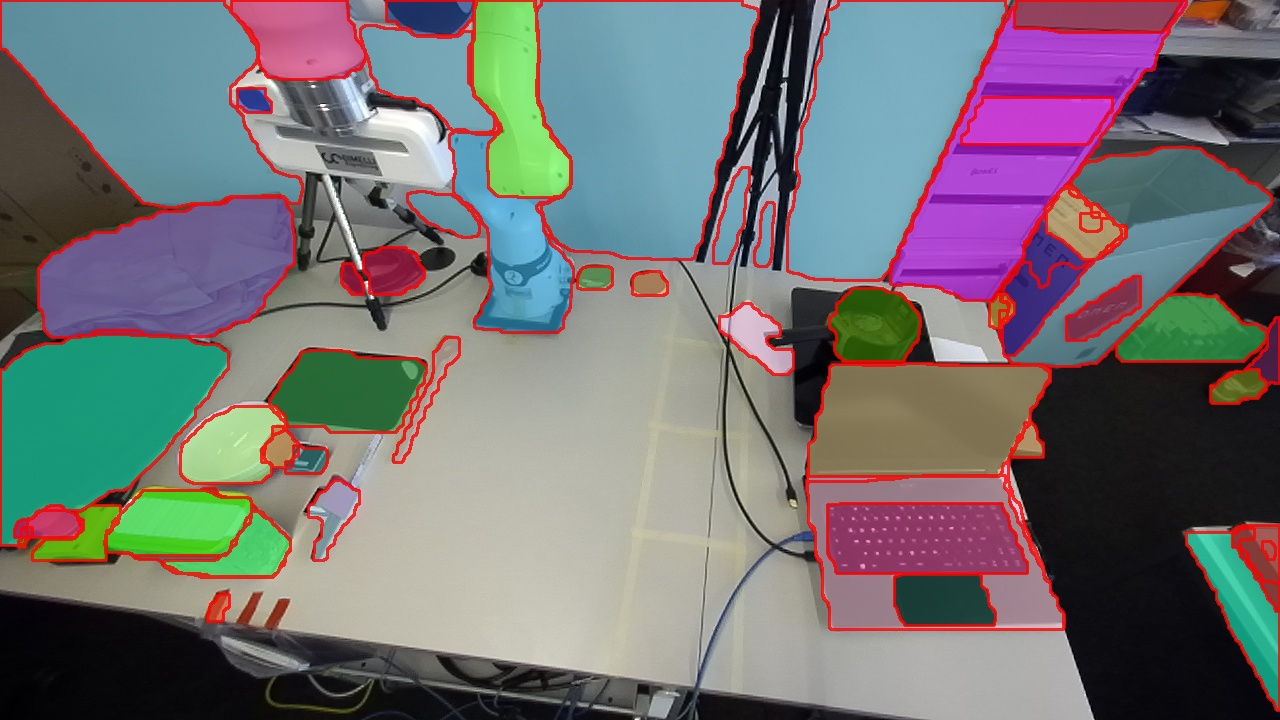
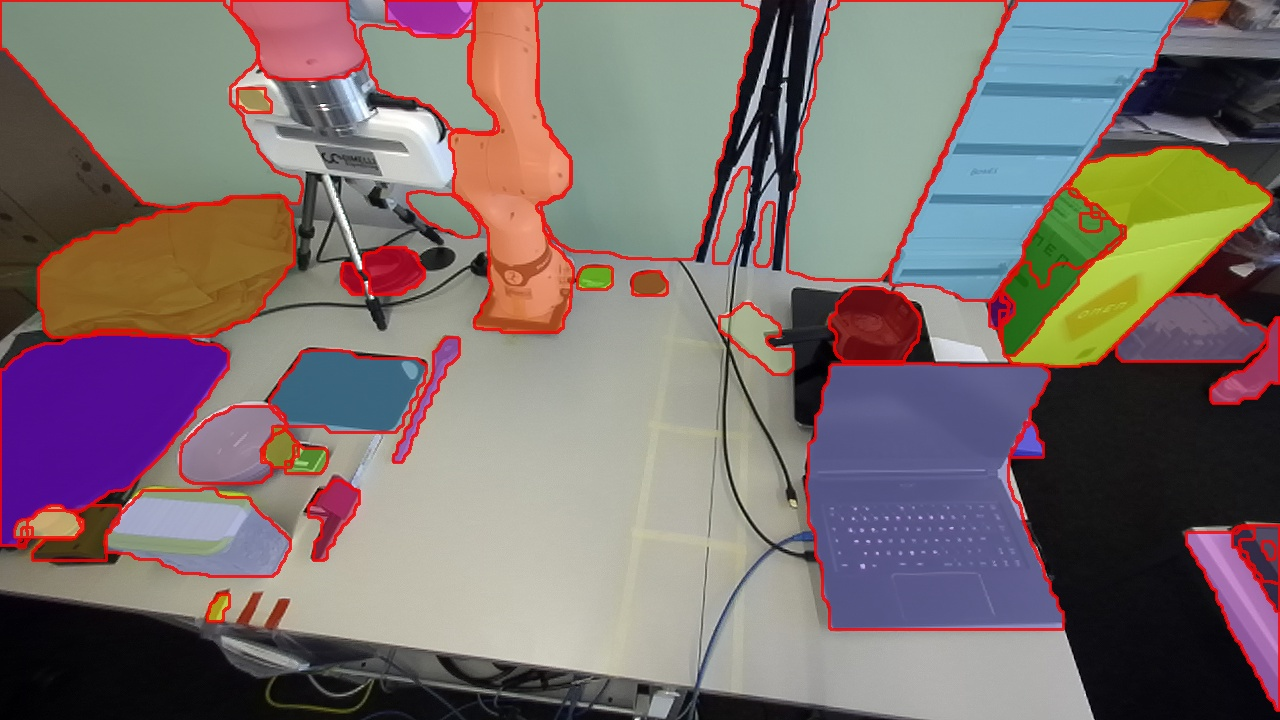
added Segmentation Matcher class and fixed some minor bugs

diff --git a/match_segmentation.py b/match_segmentation.py
@@ -4,6 +4,7 @@ import cv2
 from tryout import visualize_segmentation
 from segmentation_matching_helpers import *
 import pickle
+from segmentation_matcher import SegmentationMatcher, SegmentationParameters
 
 
 # Done: overlay both pointclouds
@@ -73,6 +74,7 @@ def crop_image_to_workspace(image, intrinsics, transform=np.eye(4, 4), min_bound
 
 if __name__ == "__main__":
     # ToDo: When adjusting workspace directly crop image to save segmentation runtime
+    # ToDO: implement pipeline to read and save camera intrinsics, transformations etc. from file
     # "global" parameters
     model = FastSAM('FastSAM-x.pt')
 
@@ -116,6 +118,7 @@ if __name__ == "__main__":
     # Done: we SHOULD NOT scale anymore, save the depth image as uint16 scaled by 10k
     # -> The Pointcloud is empty
     # ZED camera intrinsics
+    # ToDo: find out why intrinsics from ZED API are not equal to intrinsics from zed explorer
     o3d_intrinsic1 = o3d.camera.PinholeCameraIntrinsic(width=1280, height=720,
                                                        fx=533.77, fy=535.53,
                                                        cx=661.87, cy=351.29)
@@ -124,20 +127,19 @@ if __name__ == "__main__":
                                                        fx=523.68, fy=523.68,
                                                        cx=659.51, cy=365.34)
 
-    img = crop_image_to_workspace(color_image2, o3d_intrinsic2, transform=H2, min_bound=(-0.2, -0.5, -0.1),
-                                  max_bound=(0.5, 0.5, 1.0))
+    segmentation_parameters = SegmentationParameters(736, conf=0.6, iou=0.9)
+    segmenter = SegmentationMatcher(segmentation_parameters, cutoff=2.0, model_path='FastSAM-x.pt')
+    segmenter.set_camera_params([o3d_intrinsic1, o3d_intrinsic2], [H1, H2])
+    segmenter.set_images([color_image1, color_image2], [depth_image1, depth_image2])
+    # ToDo: Segmentation seems to be slower when called via this class
+    mask_arrays = segmenter.segment_color_images(device="cpu")
+    segmenter.generate_pointclouds_from_masks()
+    global_pointclouds = segmenter.project_pointclouds_to_global()
+    # exception free
+    correspondences, scores = segmenter.match_segmentations(voxel_size=0.05, threshold=0.0)
+    corresponding_pointclouds = segmenter.align_corresponding_objects(correspondences, scores)
 
-    # ToDo: Maybe we can use fastsam background to help our segmentation
-    """
-    cv2.imshow('img', img)
-    cv2.waitKey(0)
-    img = crop_image_to_workspace(color_image1, o3d_intrinsic1, transform=H1, min_bound=(-0.2, -0.5, -0.1),
-                                  max_bound=(0.5, 0.5, 1.0))
-    cv2.imshow('img', img)
-    cv2.waitKey(0)
-    """
-
-
+    # ToDo: Maybe we can use fastsam background to help our segmentation (with point prompt)
 
     cut_off_depth = 2.0  # [m] define how far the generated pointclouds should reach in depth
     pc_array_1 = []
@@ -160,10 +162,10 @@ if __name__ == "__main__":
     point_cloud2 = o3d.geometry.PointCloud.create_from_rgbd_image(rgbd_image2, o3d_intrinsic2)
 
     # Visualizations (mainly for debugging)
-    o3d.visualization.draw_geometries([point_cloud1], width=1280, height=720)
-    o3d.visualization.draw_geometries([point_cloud2], width=1280, height=720)
+    # o3d.visualization.draw_geometries([point_cloud1], width=1280, height=720)
+    # o3d.visualization.draw_geometries([point_cloud2], width=1280, height=720)
     # o3d.visualization.draw_geometries([point_cloud1, point_cloud2], width=1280, height=720)
-    o3d.visualization.draw_geometries([point_cloud1.transform(H1), point_cloud2.transform(H2)], width=1280, height=720)
+    # o3d.visualization.draw_geometries([point_cloud1.transform(H1), point_cloud2.transform(H2)], width=1280, height=720)
 
     # Done: Check why the pointclouds are such dogshit -> Mix of scaling (because uint8) and image smoothing
     # ToDO: Check overlap in segmentations and think about how to combat it
@@ -196,13 +198,15 @@ if __name__ == "__main__":
     print("getting pointclouds 1")
     geometry_list = []
     for i, mask in enumerate(mask_array_1):
-        mask = np.asarray(mask.cpu().numpy())
+        # mask = np.asarray(mask.cpu().numpy())
         local_depth = o3d.geometry.Image(depth_image1 * mask)
         rgbd_img = o3d.geometry.RGBDImage.create_from_color_and_depth(o3d_color_1, local_depth,
                                                                       depth_scale=10000, depth_trunc=cut_off_depth,
                                                                       convert_rgb_to_intensity=False)
-        pc = o3d.geometry.PointCloud.create_from_rgbd_image(image=rgbd_img, intrinsic=o3d_intrinsic1)
+        # fill in the extrinsic parameter for bounding box visualization
+        pc = o3d.geometry.PointCloud.create_from_rgbd_image(image=rgbd_img, intrinsic=o3d_intrinsic1, extrinsic=np.linalg.inv(H1))
         # pc.paint_uniform_color(np.divide(colors_ocv1[i], 255))
+        # ToDo: Maybe already delete here all the pointclouds outside of the workspace (GLOBAL)
         pc = pc.uniform_down_sample(every_k_points=3)
         # pc, _ = pc.remove_statistical_outlier(nb_neighbors=20, std_ratio=0.99)
         pc, _ = pc.remove_radius_outlier(nb_points=25, radius=0.05)
@@ -224,12 +228,12 @@ if __name__ == "__main__":
         # color[2] = 0
 
     for i, mask in enumerate(mask_array_2):
-        mask = np.asarray(mask.cpu().numpy())
+        # mask = np.asarray(mask.cpu().numpy())
         local_depth = o3d.geometry.Image(depth_image2 * mask)
         rgbd_img = o3d.geometry.RGBDImage.create_from_color_and_depth(o3d_color_2, local_depth,
                                                                       depth_scale=10000, depth_trunc=cut_off_depth,
                                                                       convert_rgb_to_intensity=False)
-        pc = o3d.geometry.PointCloud.create_from_rgbd_image(image=rgbd_img, intrinsic=o3d_intrinsic2)
+        pc = o3d.geometry.PointCloud.create_from_rgbd_image(image=rgbd_img, intrinsic=o3d_intrinsic2, extrinsic=np.linalg.inv(H2))
         # pc.paint_uniform_color(np.divide(colors_ocv2[i], 255))
 
         pc = pc.uniform_down_sample(every_k_points=3)
@@ -242,7 +246,7 @@ if __name__ == "__main__":
             geometry_list.append(bbox)
             geometry_list.append(pc)
 
-    # o3d.visualization.draw_geometries(geometry_list, width=1280, height=720)
+    o3d.visualization.draw_geometries(geometry_list, width=1280, height=720)
     print("Converting pointclouds to global coordinate system...")
 
     # convert pointclouds to global coordinate system
@@ -250,10 +254,6 @@ if __name__ == "__main__":
                                                         paint=None)
     global_pc2, T_S_c2 = project_point_clouds_to_global(pc_array_2, rotations["camera1"], translations["camera1"],
                                                         paint=None)
-    # Done: Render both pointclouds with distinct colors in the same window to check their global alignment
-    temp = global_pc1.copy()
-    temp.extend(global_pc2)
-
 
     print("matching segmentations now!")
     # Done: Improve Matching. For some reasons objects far apart are matched together

diff --git a/segmentation_matcher.py b/segmentation_matcher.py
@@ -1,0 +1,131 @@
+import numpy as np
+import open3d.visualization
+import cv2
+from tryout import visualize_segmentation
+from segmentation_matching_helpers import *
+import pickle
+
+
+class SegmentationParameters:
+    def __init__(self, image_size=736, conf=0.6, iou=0.9):
+        self.image_size = image_size
+        self.confidence = conf
+        self.iou = iou
+
+    def set_parameters(self, imgsz, conf, iou):
+        self.image_size = imgsz
+        self.confidence = conf
+        self.iou = iou
+
+
+class SegmentationMatcher:
+    """
+    Note that this Matcher works with tuples or lists of images, camera parameters and so on
+    """
+
+    def __init__(self, segmentation_parameters, cutoff, model_path='FastSAM-x.pt'):
+        self.color_images = []
+        self.depth_images = []
+        self.intrinsics = []
+        self.transforms = []
+        self.mask_arrays = []
+        self.seg_params = segmentation_parameters
+        self.nn_model = FastSAM(model_path)
+        self.max_depth = cutoff  # truncation depth
+        self.pc_array_1 = []
+        self.pc_array_2 = []
+
+    def set_camera_params(self, intrinsics, transforms):
+        self.intrinsics = intrinsics
+        self.transforms = transforms
+
+    def set_segmentation_model(self, model_path):
+        self.nn_model = FastSAM(model_path)
+
+    def set_images(self, color_images, depth_images):
+        self.color_images = color_images
+        self.depth_images = depth_images
+
+    def set_segmentation_params(self, segmentation_params):
+        self.seg_params = segmentation_params
+
+    def segment_color_images(self, device="cpu"):
+        # ToDo: test if one can scam runtime of the model by combining the them at the same time
+        DEVICE = device
+        print("loaded NN model")
+        color_images = self.color_images
+        for image in color_images:
+            everything_results = self.nn_model(image, device=DEVICE, retina_masks=True,
+                                               imgsz=self.seg_params.image_size, conf=self.seg_params.confidence,
+                                               iou=self.seg_params.iou)
+            prompt_process = FastSAMPrompt(image, everything_results, device=DEVICE)
+            # everything prompt
+            # mask_array = prompt_process.everything_prompt()  # results.mask.data
+            annotations = prompt_process._format_results(result=everything_results[0], filter=0)
+            annotations, _ = prompt_process.filter_masks(annotations)
+            mask_array = [ann["segmentation"] for ann in annotations]  # is of type np_array
+
+            self.mask_arrays.append(mask_array)
+
+        return self.mask_arrays
+
+    def generate_pointclouds_from_masks(self):
+        point_cloud_arrays = [self.pc_array_1, self.pc_array_2]
+        for i, (mask_array, depth_image, color_image, intrinsic) in enumerate(
+                zip(self.mask_arrays, self.depth_images, self.color_images,
+                    self.intrinsics)):
+            for mask in mask_array:
+                local_depth = o3d.geometry.Image(depth_image * mask)
+                local_color = o3d.geometry.Image(color_image.astype(np.uint8))
+                rgbd_img = o3d.geometry.RGBDImage.create_from_color_and_depth(local_color, local_depth,
+                                                                              depth_scale=10000,
+                                                                              depth_trunc=self.max_depth,
+                                                                              convert_rgb_to_intensity=False)
+                pc = o3d.geometry.PointCloud.create_from_rgbd_image(image=rgbd_img, intrinsic=intrinsic)
+                # pc.paint_uniform_color(np.divide(colors_ocv1[i], 255))
+                pc = pc.uniform_down_sample(every_k_points=3)
+                # pc, _ = pc.remove_statistical_outlier(nb_neighbors=20, std_ratio=0.99)
+                pc, _ = pc.remove_radius_outlier(nb_points=25, radius=0.05)
+                # o3d.visualization.draw_geometries([pc], width=1280, height=720)
+                if len(pc.points) > 100:  # delete all pointclouds with less than 40 points
+                    point_cloud_arrays[i].append(pc)
+
+    def project_pointclouds_to_global(self):
+        for pc_array, transform in zip([self.pc_array_1, self.pc_array_2], self.transforms):
+            for pc in pc_array:
+                pc.transform(transform)
+
+        return self.pc_array_1, self.pc_array_2
+
+    def match_segmentations(self, voxel_size=0.05, threshold=0.0):
+        correspondences, scores = match_segmentations_3d(self.pc_array_1, self.pc_array_2, voxel_size=voxel_size,
+                                                         threshold=threshold)
+
+        return correspondences, scores
+
+    def align_corresponding_objects(self, correspondences, scores):
+        corresponding_pointclouds = []
+        for pc_tuple, iou in zip(correspondences, scores):
+            # align both pointclouds
+            max_dist = 2 * np.linalg.norm(pc_tuple[0].get_center() - pc_tuple[1].get_center())
+            # Estimate normals for both point clouds
+            pc_tuple[0].estimate_normals(search_param=o3d.geometry.KDTreeSearchParamHybrid(radius=0.1, max_nn=30))
+            pc_tuple[1].estimate_normals(search_param=o3d.geometry.KDTreeSearchParamHybrid(radius=0.1, max_nn=30))
+            try:
+                # use default colored icp parameters
+                icp = o3d.pipelines.registration.registration_colored_icp(pc_tuple[0], pc_tuple[1],
+                                                                          max_correspondence_distance=max_dist)
+                # transform point cloud 1 onto point cloud 2
+                pc_tuple[0].transform(icp.transformation)
+            except RuntimeError as e:
+                # sometimes no correspondence is found. Then we simply overlay the untransformed point-clouds to avoid a
+                # complete stop of the program
+                print(f"Open3D Error: {e}")
+                print("proceeding by overlaying point-clouds without transformation")
+
+            corresponding_pointclouds.append(pc_tuple)
+            o3d.visualization.draw_geometries(pc_tuple)
+
+        return corresponding_pointclouds
+
+

diff --git a/segmentation_matching_helpers.py b/segmentation_matching_helpers.py
@@ -74,8 +74,11 @@ def segment_image(image_path, nn, imgsz=736, conf=0.5, iou=0.8, output_path="./o
     everything_results = model(IMAGE_PATH, device=DEVICE, retina_masks=True, imgsz=imgsz, conf=conf, iou=iou)
     prompt_process = FastSAMPrompt(IMAGE_PATH, everything_results, device=DEVICE)
     # everything prompt
-    mask_array = prompt_process.everything_prompt()  # results.mask.data
-    prompt_process.plot(annotations=mask_array, output_path=output_path)
+    # mask_array = prompt_process.everything_prompt()  # results.mask.data
+    annotations = prompt_process._format_results(result=everything_results[0], filter=0)
+    annotations, _ = prompt_process.filter_masks(annotations)
+    prompt_process.plot(annotations=annotations, output_path=output_path)
+    mask_array = [ann["segmentation"] for ann in annotations]  # is of type np_array
     result_dict = prompt_process._format_results(everything_results[0])
     ids = [d['id'] for d in result_dict]
 

diff --git a/seg_matcher_test.py b/seg_matcher_test.py
@@ -1,0 +1,20 @@
+import numpy as np
+import open3d.cpu.pybind.io
+import open3d.cpu.pybind.t.geometry
+import open3d.visualization
+import cv2
+from tryout import visualize_segmentation
+from segmentation_matching_helpers import *
+import pickle
+import open3d.core as o3c
+from segmentation_matcher import SegmentationParameters, SegmentationMatcher
+
+
+segmentation_parameters=SegmentationParameters(736, conf=0.6, iou=0.9)
+segmenter = SegmentationMatcher(segmentation_parameters, cutoff=2.0, model_path='FastSAM-x.pt')
+
+mask_arrays = segmenter.segment_color_images(device="cpu")
+segmenter.generate_pointclouds_from_masks()
+global_pointclouds = segmenter.project_pointclouds_to_global()
+correspondences, scores = segmenter.match_segmentations(voxel_size=0.05, threshold=0.0)
+corresponding_pointclouds = segmenter.align_corresponding_objects(correspondences, scores)

diff --git a/tryout.py b/tryout.py
@@ -76,7 +76,8 @@ def visualize_segmentation(mask_array, depth_image, wait=10):
         rgb_image = depth_image.astype(np.uint8)  # scale down the depth image to uint8 to be compatible with rgb
     color_list = []
     for mask in mask_array:
-        int_array = mask.cpu().numpy().astype(np.uint8)
+        int_array = mask.astype(np.uint8)
+        # int_array = mask.cpu().numpy().astype(np.uint8)
         # Find coordinates of white pixels in the binary image
         white_pixels_coords = np.where(int_array == 1)
         # Choose a random color for the white patch (excluding black and white)

diff --git a/fastsam/prompt.py b/fastsam/prompt.py
@@ -60,7 +60,7 @@ class FastSAMPrompt:
             annotations.append(annotation)
         return annotations
 
-    def filter_masks(annotations):  # filte the overlap mask
+    def filter_masks(self, annotations):  # filte the overlap mask
         annotations.sort(key=lambda x: x['area'], reverse=True)
         to_remove = set()
         for i in range(0, len(annotations)):
